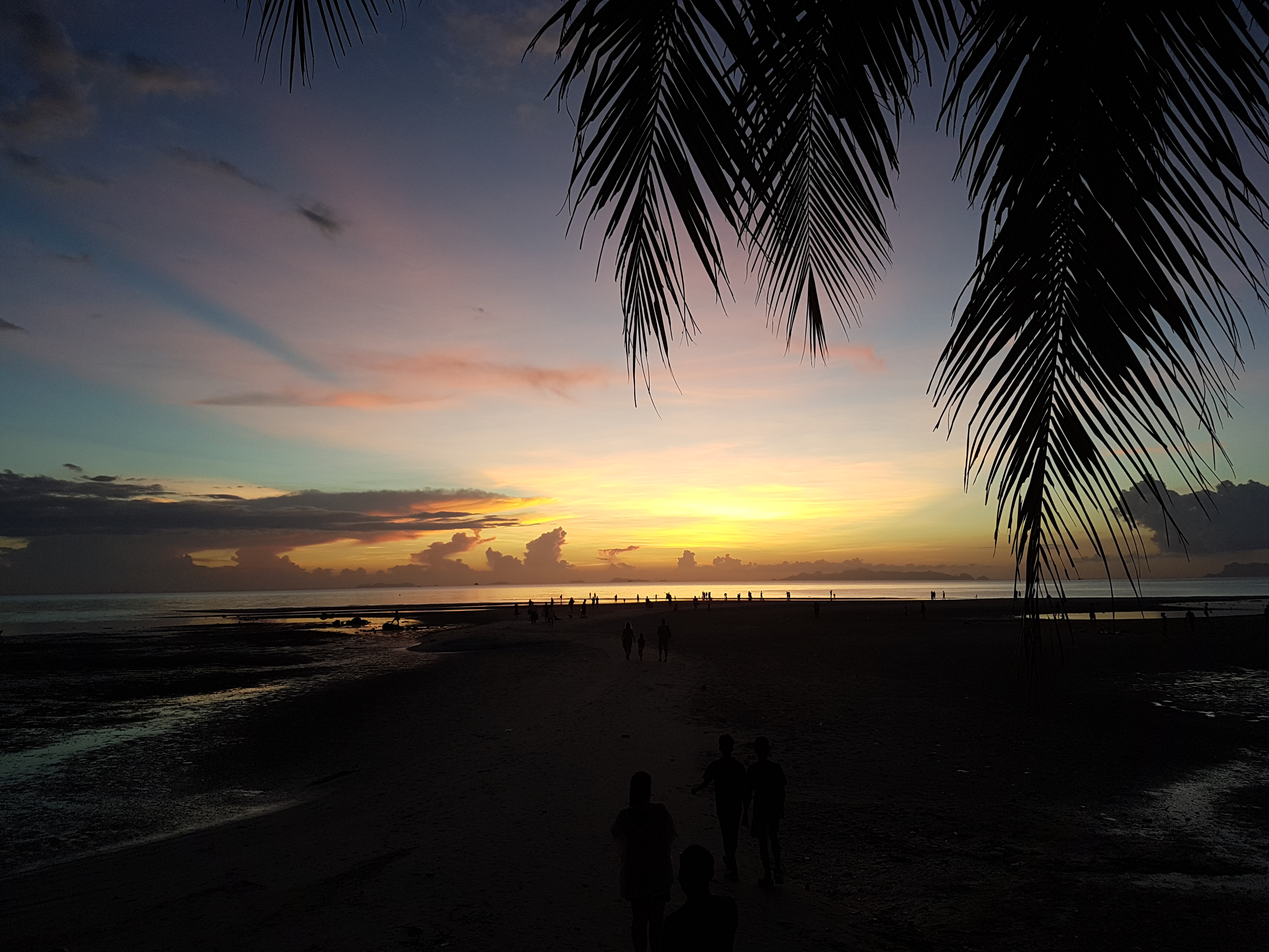
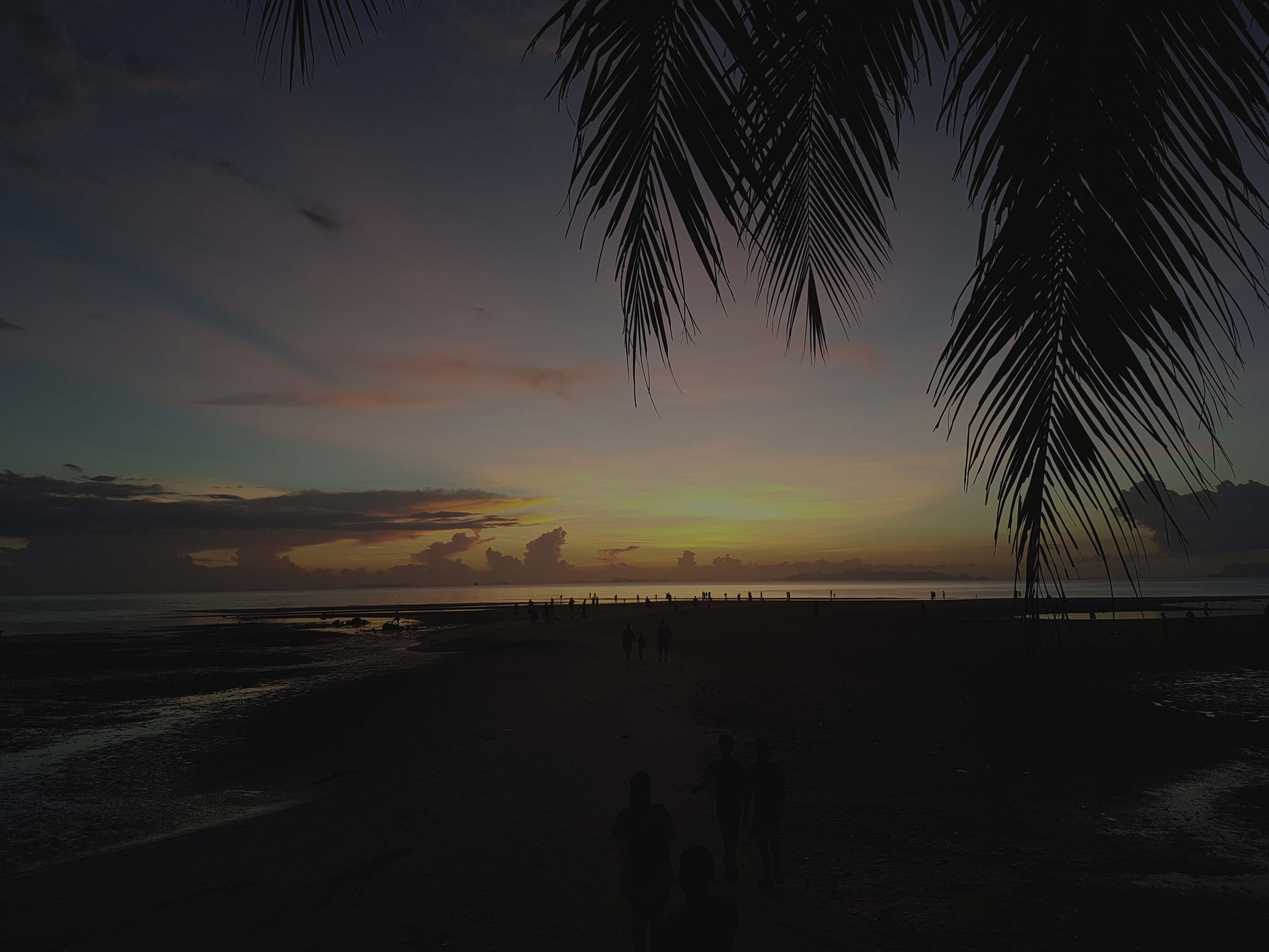
Apply new background image

diff --git a/css/front.css b/css/front.css
@@ -8,6 +8,10 @@ body {
     left: 0;
     margin: 0;
     overflow: auto;
+    display: flex; 
+    min-height: 100vh; 
+    background: #000 url(‘../img/background.jpg’); 
+    background-size: cover;
 }
 #fullscreen {
     z-index: -999;
@@ -40,7 +44,7 @@ h3 {
     background-color: rgba(0, 0, 0, 0.5);
     text-align: center;
     overflow: auto;
-    height: 100%;
+    margin: auto;
 }
 ul {
     list-style: none;
